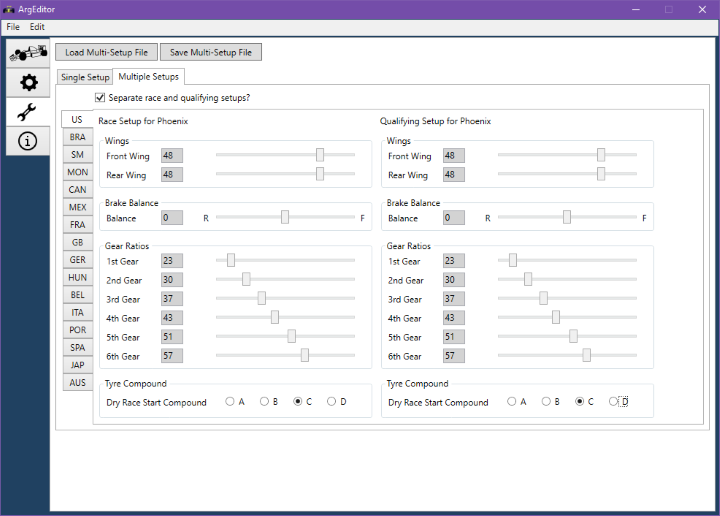
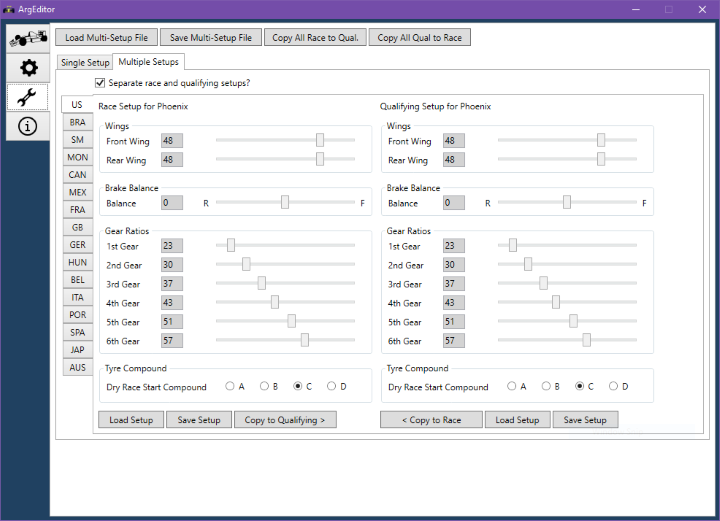
Update documentation with latest features

diff --git a/Docs/docs/setups-screen.md b/Docs/docs/setups-screen.md
@@ -40,5 +40,12 @@ the gear ratios and finally the tyre compound that will be used in dry races.
 If you select incorrect gear ratios, there will be an indication to the right
 of the sliders, and you will not be able to save the setups.
 
+You can use "Load Setup" and "Save Setup" to load or save a single setup to/from
+the current slot. Using the "Copy" buttons you can copy the race setup to the
+qualifying slot, or vice versa.
+
 The toolbar buttons at the top allow you to load existing setups, or save the
 current ones you are editing to disk.
+
+You can also copy all the race setups to the qualifying slots for the same track,
+or vice versa.

diff --git a/Docs/docs/download.md b/Docs/docs/download.md
@@ -18,6 +18,15 @@ be found here: https://www.microsoft.com/en-us/download/details.aspx?id=24872
 
 ## Release notes
 
+### 0.13 (2017-06-25)
+
+* Can copy all multi-setup race setups to their respective qualifying slots, or vice versa
+* Can copy single multi-setup race setup to its qualifying slot, or vice versa
+* Can load or save single setups to/from multi-setup slots
+* Clearer indication of selected car/helmet
+* Fix: Multi-setups sometimes did not save the selected tyre compound, using the default C instead
+
+
 ### 0.12 (2017-05-12)
 
 * The selected car/helmet is marked with a darker border in the left-side menus
